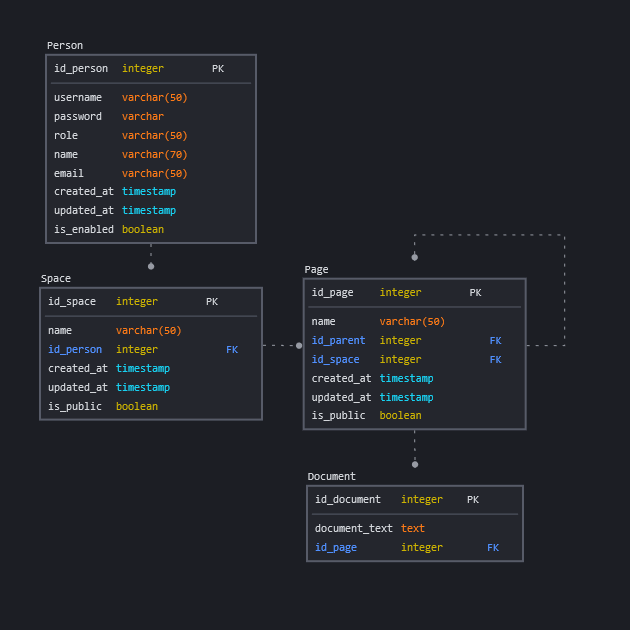
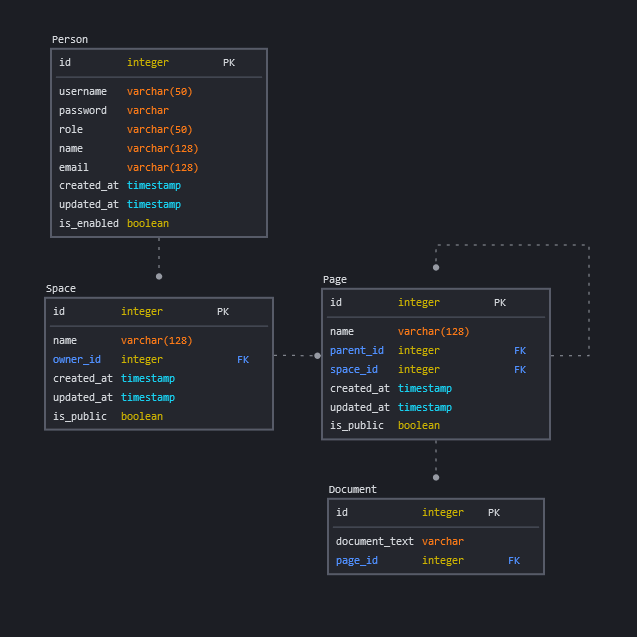
Исправлены ограничения, переименованы атрибуты

Changed region(s): [[0.0603, 0.3921, 0.8746, 0.6937], [0.0603, 0.0603, 0.4222, 0.3921], [0.4825, 0.7238, 0.8746, 0.9048]]

diff --git a/DataModelDescription.md b/DataModelDescription.md
@@ -5,7 +5,7 @@
 
 Атрибуты:
 
-- id_person - ID пользователя (PK)
+- id - ID пользователя (PK)
 - username - логин пользователя
 - password - пароль пользователя
 - role - роль пользователя
@@ -20,9 +20,9 @@
 
 Атрибуты:
 
-- id_space - ID пространства (PK)
+- id - ID пространства (PK)
 - name - название пространства
-- id_person - ID владельца пространства (FK)
+- owner_id - ID владельца пространства (FK)
 - created_at - дата и время создания пространства
 - updated_at - дата и время обновления пространства
 - is_public - статут публичности пространства
@@ -32,10 +32,10 @@
 
 Атрибуты:
 
-- id_page - ID записи (PK)
+- id - ID записи (PK)
 - name - название записи
-- id_parent - ID записи-родителя (FK)
-- id_space - ID пространства, которое содержит эту запись (FK)
+- parent_id - ID записи-родителя (FK)
+- space_id - ID пространства, которое содержит эту запись (FK)
 - created_at - дата и время создания записи
 - updated_at - дата и время обновления записи
 - is_public - статут публичности записи
@@ -45,6 +45,6 @@
 
 Атрибуты:
 
-- id_document - ID документа (PK)
+- id - ID документа (PK)
 - document_text - текст документа
-- id_page - ID записи, которая содержит этот документ (FK)
+- page_id - ID записи, которая содержит этот документ (FK)
